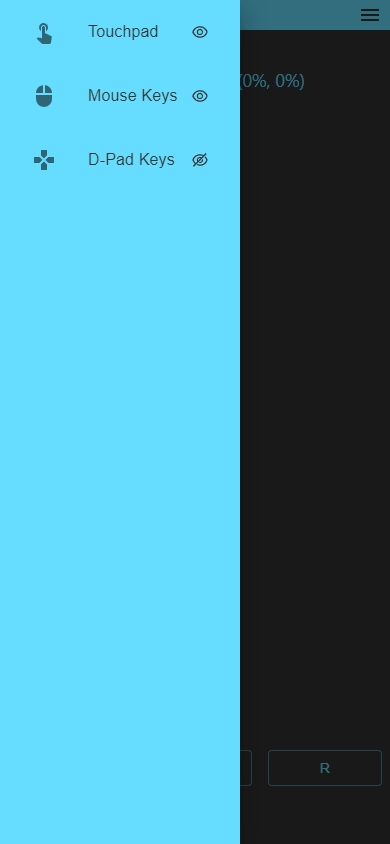
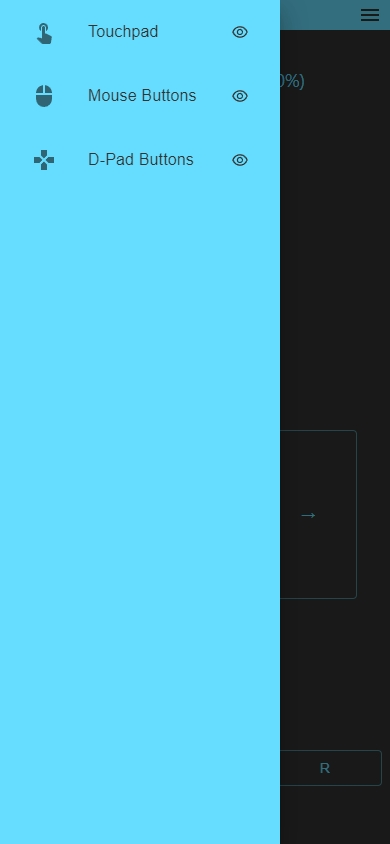
v0.3.1

diff --git a/src/component/SideBar.js b/src/component/SideBar.js
@@ -2,8 +2,6 @@ import {Component} from 'react';
 import GamepadIcon from '@mui/icons-material/Gamepad';
 import MouseIcon from '@mui/icons-material/Mouse';
 import TouchAppIcon from '@mui/icons-material/TouchApp';
-// import {ThemeProvider} from '@mui/material/styles';
-// import {customTheme} from '../utils/Theme';
 import {Context} from '../utils/Context';
 import {Drawer, List, ListItem, ListItemButton, ListItemIcon, ListItemText} from "@mui/material";
 import {EyeOutlined, EyeFilled, EyeInvisibleOutlined} from '@ant-design/icons';
@@ -14,9 +12,8 @@ class SideBar extends Component {
     }
 
     render() {
-        let drawerWidth = 240;
+        let drawerWidth = 280;
         return (
-            // <ThemeProvider theme={customTheme}>
             <Drawer
                 anchor="left"
                 open={this.context.drawerOpen}
@@ -81,7 +78,6 @@ class SideBar extends Component {
 
                 </List>
             </Drawer>
-            // </ThemeProvider>
         );
     }
 }

diff --git a/src/component/TopBar.js b/src/component/TopBar.js
@@ -36,7 +36,16 @@ class TopBar extends React.Component {
                             marginTop: '10px',
                             width: '20px',
                             height: '20px',
-                            color: '#333'
+                            color: '#333',
+                            // 增加透明的伪元素以扩大触发区域
+                            '&:after': {
+                                content: '""',
+                                position: 'absolute',
+                                top: '-30px',
+                                right: '-30px',
+                                bottom: '-30px',
+                                left: '-30px',
+                            },
                         }}
                         onClick={() => {
                             this.context.setDrawerOpen(true);

diff --git a/main.py b/main.py
@@ -9,7 +9,7 @@ print("""
 |_\____/\___/|_| |_|\__|_|  \___/|_|_|\___|_|   
                                                 
 https://github.com/Mehver/iController
-v0.3.0
+v0.3.1
 
 """)
 

diff --git a/README.md b/README.md
@@ -1,6 +1,6 @@
 <div align="center">
     <img src="https://github.com/Mehver/iController/raw/main/%23README/icon/256.png" width="20%"/>
-    <h1>iController <code>v0.3.0</code></h1>
+    <h1>iController <code>v0.3.1</code></h1>
     </tr>
 	<p>English | <a href='https://github.com/Mehver/iController/blob/main/%23README/README-cn.md'>简体中文</a></p>
 </div>
@@ -13,13 +13,13 @@ control it as touchpad and keyboard through a web page after connecting.
 <table>
     <tr>
         <td>
-            <img src="https://github.com/Mehver/iController/raw/main/%23README/A.png"/>
+            <img src="https://github.com/Mehver/iController/raw/main/%23README/A.png" width="390px"/>
         </td>
         <td>
-            <img src="https://github.com/Mehver/iController/raw/main/%23README/B.png"/>
+            <img src="https://github.com/Mehver/iController/raw/main/%23README/B.png" width="390px"/>
         </td>
         <td>
-            <img src="https://github.com/Mehver/iController/raw/main/%23README/C.png"/>
+            <img src="https://github.com/Mehver/iController/raw/main/%23README/C.png" width="390px"/>
         </td>
         <td>
             <img src="https://github.com/Mehver/iController/raw/main/%23README/D.png" width="390px"/>

diff --git a/#README/README-cn.md b/#README/README-cn.md
@@ -1,6 +1,6 @@
 <div align="center">
     <img src="https://github.com/Mehver/iController/raw/main/%23README/icon/256.png" width="20%"/>
-    <h1>iController <code>v0.3.0</code></h1>
+    <h1>iController <code>v0.3.1</code></h1>
 	<p><a href='https://github.com/Mehver/iController/blob/main/README.md'>English</a> | 简体中文</p>
 </div>
 
@@ -11,13 +11,13 @@
 <table>
     <tr>
         <td>
-            <img src="https://github.com/Mehver/iController/raw/main/%23README/A.png"/>
+            <img src="https://github.com/Mehver/iController/raw/main/%23README/A.png" width="390px"/>
         </td>
         <td>
-            <img src="https://github.com/Mehver/iController/raw/main/%23README/B.png"/>
+            <img src="https://github.com/Mehver/iController/raw/main/%23README/B.png" width="390px"/>
         </td>
         <td>
-            <img src="https://github.com/Mehver/iController/raw/main/%23README/C.png"/>
+            <img src="https://github.com/Mehver/iController/raw/main/%23README/C.png" width="390px"/>
         </td>
         <td>
             <img src="https://github.com/Mehver/iController/raw/main/%23README/D.png" width="390px"/>
